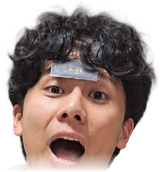
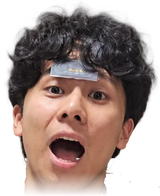
Natural head-neck-body join: drawn neck, Percival face recut with neck fading into the hood, skin tone matched

diff --git a/index.html b/index.html
@@ -156,7 +156,7 @@ jersey:{name:'휴고범',nick:'휴고범',kit:{name:'BEOM',color:'#c9ec4a'},trai
 leesin:{name:'리신범',nick:'리신범',kit:{name:'BEOM',color:'#ffd166'},trait:{strong:1,weak:-1},face:'leesin',split:true,shout:'용의 분노!',strokes:'lee',fist:true,stanceK:1.1,crouchK:.08,shirt:'#6f6449',camo:['#4b5536','#8c7b58','#2f2a21','#b3a37f'],sleeve:'#6f6449',pants:'#151515',shorts:true,hair:'#24180f',watch:true,bigWatch:true},
 // 퍼시벌, from the user's photo: thick black curly hair, open-mouthed grin, grey zip hoodie over a black tee, black
 // shorts. Left-handed. Scores with a deep squat, both fists up by the head, and his ceremony line.
-percival:{name:'퍼시벌',nick:'퍼시벌',kit:{name:'PERCIVAL',color:'#d9d9d9'},face:'percival',lefty:true,serveEdge:.25,ceremony:'아엠 퍼시벌~',squatCheer:true,split:true,stanceK:1.1,crouchK:.1,shirt:'#9d9fa4',sleeve:'#9d9fa4',hoodie:true,collar:'#16161a',pants:'#151515',shorts:true,hair:'#141414'},
+percival:{name:'퍼시벌',nick:'퍼시벌',kit:{name:'PERCIVAL',color:'#d9d9d9'},face:'percival',faceFit:{h:49,b:27},skin:'#c99474',skinShade:'#a26d52',lefty:true,serveEdge:.25,ceremony:'아엠 퍼시벌~',squatCheer:true,split:true,stanceK:1.1,crouchK:.1,shirt:'#9d9fa4',sleeve:'#9d9fa4',hoodie:true,collar:'#16161a',pants:'#151515',shorts:true,hair:'#141414'},
 plain:{name:'파란 선수',shirt:'#2f6fd6',sleeve:'#2f6fd6',pants:'#33404f',hair:'#3a2b22'},
 ai:{name:'빨간 선수',shirt:'#d6453d',sleeve:'#d6453d',pants:'#33404f',hair:'#3a2b22'}};
 // Shakehand blade and rubber. speed / spin multiply the shot, err is the extra chance a good stroke still misses (control).
@@ -422,7 +422,7 @@ if(down&&gesture&&!gesture.held&&gesture.distance>=(touchInput?18:12)&&liveStrok
 if(down&&gesture&&!gesture.held&&!gesture.dir&&gesture.stance!=='mid'){mySwing.type=gesture.stance==='low'?'lower':'chop';return .35;}   // finger down: show the chosen stance
 mySwing.type=expectStroke();return P.clamp((1.37-ball.y)/1.45,0,1)*.35;}let lastShot='drive',aiShot='short',lastRenderT=performance.now();
 function person(st,hipY,target,angle,look,s,type,face,side,stroke,since,prep=null){
-const arm=look.lefty?(hipY>H*.5?-1:1):side,T=st.tall||1,R=RACKETS[type],skin='#f2cda8',pants=look.pants,x=st.x,moving=P.clamp(Math.abs(st.vx)/160,0,1),dir=Math.sign(st.vx)||1;
+const arm=look.lefty?(hipY>H*.5?-1:1):side,T=st.tall||1,R=RACKETS[type],skin=look.skin||'#f2cda8',pants=look.pants,x=st.x,moving=P.clamp(Math.abs(st.vx)/160,0,1),dir=Math.sign(st.vx)||1;
 const pose=strokePose(stroke,since,side,s,{x:x+arm*15*s,y:hipY-50*s*T+st.crouch*18*s},target,angle,st.crouch,look,st.amp??1,st.dirX||0,prep,T);
 const cheer=st.cheerT!=null&&time-st.cheerT<1.2?Math.abs(Math.sin((time-st.cheerT)*8)):-1;   // won the point: jump with both arms up
 if(cheer>=0){pose.target={x:x+side*16*s,y:hipY-128*s*T};pose.angle=side*.15;pose.crouch=.15;pose.twist=0;}
@@ -470,8 +470,9 @@ const ex=ux-side*8*s,ey=top+16*s*T;ctx.beginPath();ctx.arc(ex,ey,4.2*s,0,Math.PI
 // player is going, and wobbles back when they stop.
 {const n=sad?0:P.clamp((st.vx||0)/160,-1,1);st.hov=(st.hov||0)*.8+(-n-(st.ho||0))*.22;st.ho=P.clamp((st.ho||0)+st.hov,-1.4,1.4);st.hn=lerp(st.hn||0,n,.15);}
 const hx=ux+st.lean*3*s+pose.twist*side*2*s+st.ho*4*s,hd=hy-75*s*T+(sad?9*s:0)+Math.abs(st.ho)*1.2*s;
+{const nk={x:ux,y:top+4*s},nh={x:hx,y:hd+9*s};line(nk,nh,look.skinShade||'#d9ad88',10.5*s);line({x:nk.x+1*s,y:nk.y},{x:nh.x+1*s,y:nh.y},skin,8*s);}   // neck, shaded at the sides
 ctx.save();ctx.translate(hx,hd);ctx.rotate(st.ho*.2);ctx.scale(1-.12*Math.abs(st.hn),1);ctx.translate(-hx+st.hn*3*s,-hd);ctx.beginPath();ctx.arc(hx,hd,13*s,0,Math.PI*2);ctx.fillStyle=skin;ctx.fill();
-const fimg=faceImg(look);if(fimg){const hh=58*s,hw=hh*fimg.naturalWidth/fimg.naturalHeight;ctx.drawImage(fimg,hx-hw/2,hd-9*s-hh/2,hw,hh);}   // photo head, slightly big for a playful look
+const fimg=faceImg(look);if(fimg){const fit=look.faceFit,hh=(fit?fit.h:58)*s,hw=hh*fimg.naturalWidth/fimg.naturalHeight;ctx.drawImage(fimg,hx-hw/2,fit?hd+fit.b*s-hh:hd-9*s-hh/2,hw,hh);}   // fit: photo cut with its own neck, bottom tucked into the collar   // photo head, slightly big for a playful look
 else if(look.tousled){ // seen from behind: hair covers the back of the head, glasses show only as temples and lens rims at the sides
 for(const k of [-1,1]){ctx.beginPath();ctx.arc(hx+k*13*s,hd+1*s,3*s,0,Math.PI*2);ctx.fillStyle=skin;ctx.fill();}
 ctx.beginPath();ctx.ellipse(hx,hd-3*s,13.6*s,11.5*s,0,0,Math.PI*2);ctx.fillStyle=look.hair;ctx.fill();
